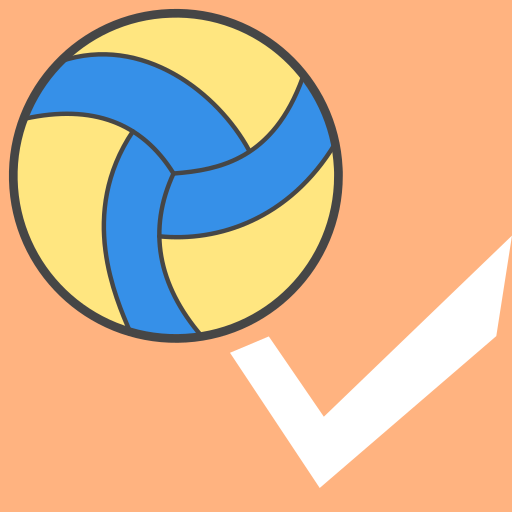
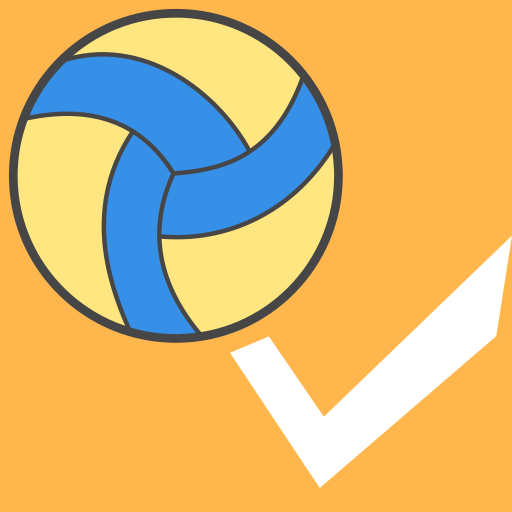
Update color scheme and assets for improved UI consistency
- Changed primary color from #ffb380 to #ffb74d in various assets and UI components.
- Updated SVG and PNG files for icons to reflect new color scheme.
- Modified color definitions in colors.xml and other relevant files.
- Adjusted background colors for adaptive launcher icons in generate-android-icons.sh.
- Ensured consistent usage of new colors across the app, including buttons and text.

diff --git a/lib/src/analytics/match_stats_page.dart b/lib/src/analytics/match_stats_page.dart
@@ -680,7 +680,7 @@ class _MatchStatsPageState extends State<MatchStatsPage> {
           FilledButton(
             onPressed: () => Navigator.of(dialogContext).pop(true),
             style: FilledButton.styleFrom(
-              backgroundColor: const Color(0xFF82D5C8),
+              backgroundColor: const Color(0xFFFFB74D),
             ),
             child: const Text('Löschen'),
           ),
@@ -1036,7 +1036,7 @@ class _MatchStatsPageState extends State<MatchStatsPage> {
               title: 'Spiel löschen',
               subtitle: 'Spiel und Statistik unwiderruflich entfernen',
               icon: Icons.delete_outline,
-              color: const Color(0xFF82D5C8),
+              color: const Color(0xFFFFB74D),
               onTap: () => _deleteMatch(match),
             ),
           ],
@@ -1416,7 +1416,7 @@ class _MatchStatsPageState extends State<MatchStatsPage> {
                   key: const ValueKey('record-point-button'),
                   onPressed: () => _startEventSelection(match, isPoint: true),
                   style: FilledButton.styleFrom(
-                    backgroundColor: const Color(0xFF7CC57E),
+                    backgroundColor: const Color(0xFFaed581),
                     foregroundColor: Colors.white,
                     textStyle: TextStyle(
                       fontFamily:
@@ -1440,7 +1440,7 @@ class _MatchStatsPageState extends State<MatchStatsPage> {
                   key: const ValueKey('record-error-button'),
                   onPressed: () => _startEventSelection(match, isPoint: false),
                   style: FilledButton.styleFrom(
-                    backgroundColor: const Color(0xFFE85450),
+                    backgroundColor: const Color(0xFFe57373),
                     foregroundColor: Colors.white,
                     textStyle: TextStyle(
                       fontFamily:
@@ -1464,7 +1464,7 @@ class _MatchStatsPageState extends State<MatchStatsPage> {
                   key: const ValueKey('record-timeout-button'),
                   onPressed: () => _recordTimeout(match),
                   style: FilledButton.styleFrom(
-                    backgroundColor: const Color(0xFFFFE680),
+                    backgroundColor: const Color(0xFFfff176),
                     foregroundColor: Colors.black,
                     textStyle: TextStyle(
                       fontFamily:
@@ -2023,10 +2023,10 @@ class _TrendChartCard extends StatelessWidget {
                 ),
                 const SizedBox(width: 12),
                 const _TrendLegendDot(
-                    color: Color(0xFFE85450), label: 'Fehler'),
+                    color: Color(0xFFe57373), label: 'Fehler'),
                 const SizedBox(width: 12),
                 const _TrendLegendLine(
-                  color: Color(0xFF82D5C8),
+                  color: Color(0xFFFFB74D),
                   label: 'Auszeit',
                 ),
               ],
@@ -2191,7 +2191,7 @@ class _TrendChartPainter extends CustomPainter {
     void paintTimeoutMarkers(List<DateTime> markers) {
       if (markers.isEmpty) return;
       final markerPaint = Paint()
-        ..color = const Color(0xFF82D5C8).withValues(alpha: 0.95)
+        ..color = const Color(0xFFFFB74D).withValues(alpha: 0.95)
         ..strokeWidth = 2;
       for (final time in markers) {
         final x = xFor(time);
@@ -2212,7 +2212,7 @@ class _TrendChartPainter extends CustomPainter {
 
     paintTimeoutMarkers(timeoutMarkers);
     paintSeries(pointSeries, Colors.greenAccent);
-    paintSeries(errorSeries, const Color(0xFFE85450));
+    paintSeries(errorSeries, const Color(0xFFe57373));
 
     const labelStyle = TextStyle(
       color: Colors.white70,
@@ -2388,7 +2388,7 @@ class _MatchHistoryTable extends StatelessWidget {
                     style: TextStyle(
                       color: entries[i].kind == 'point'
                           ? Colors.greenAccent
-                          : const Color(0xFFE85450),
+                          : const Color(0xFFe57373),
                       fontWeight: FontWeight.w600,
                     ),
                   ),
@@ -2615,7 +2615,7 @@ class _SetsOverview extends StatelessWidget {
                           ? null
                           : sets[index].us > sets[index].opponent
                               ? Colors.green.withValues(alpha: 0.2)
-                              : const Color(0xFFE85450).withValues(alpha: 0.2),
+                              : const Color(0xFFe57373).withValues(alpha: 0.2),
                     ),
                 ],
               ),

diff --git a/lib/src/tactics/tactics_page.dart b/lib/src/tactics/tactics_page.dart
@@ -43,7 +43,7 @@ class _BoardPoint {
         ),
         color: Color(
           (data['color'] as num?)?.toInt() ??
-              const Color(0xFFE85450).toARGB32(),
+              const Color(0xFFe57373).toARGB32(),
         ),
       );
 }
@@ -82,7 +82,7 @@ class _BoardLine {
               .toList()
           : const <Offset>[],
       color: Color(
-        (data['color'] as num?)?.toInt() ?? const Color(0xFFE85450).toARGB32(),
+        (data['color'] as num?)?.toInt() ?? const Color(0xFFe57373).toARGB32(),
       ),
       type: _lineTypeFromJson(data['type']),
     );
@@ -154,17 +154,17 @@ class _TacticsPageState extends State<TacticsPage> {
   static final StoreRef<String, Map<String, dynamic>> _store =
       StoreRef<String, Map<String, dynamic>>('tactics');
   static const _colors = <Color>[
-    Color(0xFFE85450),
+    Color(0xFFe57373),
     Colors.blue,
-    Color(0xFFFFE680),
-    Color(0xFF7CC57E),
+    Color(0xFFfff176),
+    Color(0xFFaed581),
     Colors.white,
   ];
 
   final List<_BoardPoint> _points = <_BoardPoint>[];
   final List<_BoardLine> _lines = <_BoardLine>[];
   final List<_SavedTactic> _savedTactics = <_SavedTactic>[];
-  Color _selectedColor = const Color(0xFFE85450);
+  Color _selectedColor = const Color(0xFFe57373);
   _Tool _tool = _Tool.point;
   List<Offset>? _activeLine;
   int? _movingPointIndex;

diff --git a/lib/src/scoreboard/scoreboard_page.dart b/lib/src/scoreboard/scoreboard_page.dart
@@ -56,8 +56,8 @@ class _ScoreSnapshot {
 }
 
 class _ScoreboardPageState extends State<ScoreboardPage> {
-  static const Color _blue = Color(0xFF3690E8);
-  static const Color _red = Color(0xFFE85450);
+  static const Color _blue = Color(0xFF64b5f6);
+  static const Color _red = Color(0xFFe57373);
 
   int _leftPoints = 0;
   int _rightPoints = 0;
@@ -475,7 +475,7 @@ class _ScoreboardPageState extends State<ScoreboardPage> {
                                                 .pop(true),
                                         style: FilledButton.styleFrom(
                                           backgroundColor:
-                                              const Color(0xFFE85450),
+                                              const Color(0xFFe57373),
                                         ),
                                         child: const Text('Löschen'),
                                       ),

diff --git a/lib/src/teams/teams_page.dart b/lib/src/teams/teams_page.dart
@@ -366,7 +366,7 @@ class _TeamsPageState extends State<TeamsPage> {
           ),
           FilledButton(
             style: FilledButton.styleFrom(
-              backgroundColor: const Color(0xFF82D5C8),
+              backgroundColor: const Color(0xFFFFB74D),
             ),
             onPressed: () => Navigator.of(dialogContext).pop(true),
             child: const Text('Löschen'),
@@ -645,7 +645,7 @@ class _TeamsPageState extends State<TeamsPage> {
                 title: 'Team löschen',
                 subtitle: 'Team und Mitglieder unwiderruflich entfernen',
                 icon: Icons.delete_outline,
-                color: const Color(0xFF82D5C8),
+                color: const Color(0xFFFFB74D),
                 onTap: () => _deleteTeam(team)),
           ],
         ),

diff --git a/lib/src/scoreboard/scoreboard_state.dart b/lib/src/scoreboard/scoreboard_state.dart
@@ -2,10 +2,10 @@ import 'package:flutter/material.dart';
 
 Color _normalizeScoreboardColor(Color color) {
   if (color.value == 0xff1976d2) {
-    return const Color(0xFF3690E8);
+    return const Color(0xFF64b5f6);
   }
   if (color.value == 0xffe53935) {
-    return const Color(0xFFE85450);
+    return const Color(0xFFe57373);
   }
   return color;
 }
@@ -170,8 +170,8 @@ class ScoreboardState {
     required this.historyEntries,
   });
 
-  static const Color defaultLeftColor = Color(0xFF3690E8);
-  static const Color defaultRightColor = Color(0xFFE85450);
+  static const Color defaultLeftColor = Color(0xFF64b5f6);
+  static const Color defaultRightColor = Color(0xFFe57373);
 
   static const ScoreboardState initial = ScoreboardState(
     leftPoints: 0,

diff --git a/lib/src/arcade/arcade_page.dart b/lib/src/arcade/arcade_page.dart
@@ -456,7 +456,7 @@ class _ArcadeCourtPainter extends CustomPainter {
       ..strokeWidth = 3;
     final paintBall = Paint()..color = const Color(0xFFFFC56D);
     final paintPlayer = Paint()..color = const Color(0xFF88D6FF);
-    final paintCpu = Paint()..color = const Color(0xFFE85450);
+    final paintCpu = Paint()..color = const Color(0xFFe57373);
     final handColor = Paint()..color = const Color(0xFFFFBC6E);
 
     final court = Rect.fromLTWH(20, 20, size.width - 40, size.height - 40);

diff --git a/lib/src/settings/settings_page.dart b/lib/src/settings/settings_page.dart
@@ -62,7 +62,7 @@ class _SettingsPageState extends State<SettingsPage> {
                 child: Text(
                   'Speichern',
                   style: TextStyle(
-                    color: _hasChanges ? const Color(0xFF82D5C8) : null,
+                    color: _hasChanges ? const Color(0xFFFFB74D) : null,
                     fontWeight:
                         _hasChanges ? FontWeight.bold : FontWeight.normal,
                   ),

diff --git a/lib/src/app.dart b/lib/src/app.dart
@@ -12,7 +12,7 @@ import 'settings/settings_page.dart';
 import 'teams/teams_page.dart';
 import 'tactics/tactics_page.dart';
 
-const Color _brandColor = Color(0xFF82D5C8);
+const Color _brandColor = Color(0xffAED581);
 
 class VolleyAceApp extends StatelessWidget {
   const VolleyAceApp({

diff --git a/lib/src/home/home_page.dart b/lib/src/home/home_page.dart
@@ -20,7 +20,7 @@ class HomePage extends StatelessWidget {
 
   @override
   Widget build(BuildContext context) {
-    const brandColor = Color(0xFF82D5C8);
+    const brandColor = Color(0xFFFFB74D);
 
     return Scaffold(
       appBar: AppBar(

diff --git a/.notes/ui-design.md b/.notes/ui-design.md
@@ -47,9 +47,9 @@ Diese Farben haben eine feste Bedeutung und werden konsistent über die ganze Ap
 | Aufgabe: erledigt | Gedimmt | `cs.onSurface.withAlpha((0.6 * 255).round())` |
 | Status: OK / Sync erfolgreich | Hellgrün | `Colors.lightGreenAccent` / `Colors.greenAccent` |
 | Status: Warnung / Beschäftigt | Amber/Orange | `Colors.amberAccent` / `Colors.orangeAccent` |
-| Status: Fehler | Rot | `Color(0xFFE85450)` |
+| Status: Fehler | Rot | `Color(0xFFe57373)` |
 | Termin: rechtzeitig | Grün | `Colors.green` |
-| Termin: überfällig | Rot | `Color(0xFFE85450)` |
+| Termin: überfällig | Rot | `Color(0xFFe57373)` |
 | Transparent / kein Hintergrund | — | `Colors.transparent` |
 
 **Regel:** Statusfarben niemals als Hintergrundfarbe — immer als Textfarbe oder Icon-Farbe einsetzen.
@@ -155,7 +155,7 @@ Wichtige Icons und ihre Bedeutung in der App:
 - Primäraktion: `ElevatedButton`
 - Sekundäraktion / Abbrechen: `TextButton`
 - Ikonbasierte Aktionen in Listen: `IconButton`
-- Destruktive Aktionen (Löschen): `foregroundColor: Color(0xFFE85450)`, `BorderSide(color: Color(0xFFE85450))`
+- Destruktive Aktionen (Löschen): `foregroundColor: Color(0xFFe57373)`, `BorderSide(color: Color(0xFFe57373))`
 
 ### Dialoge
 
